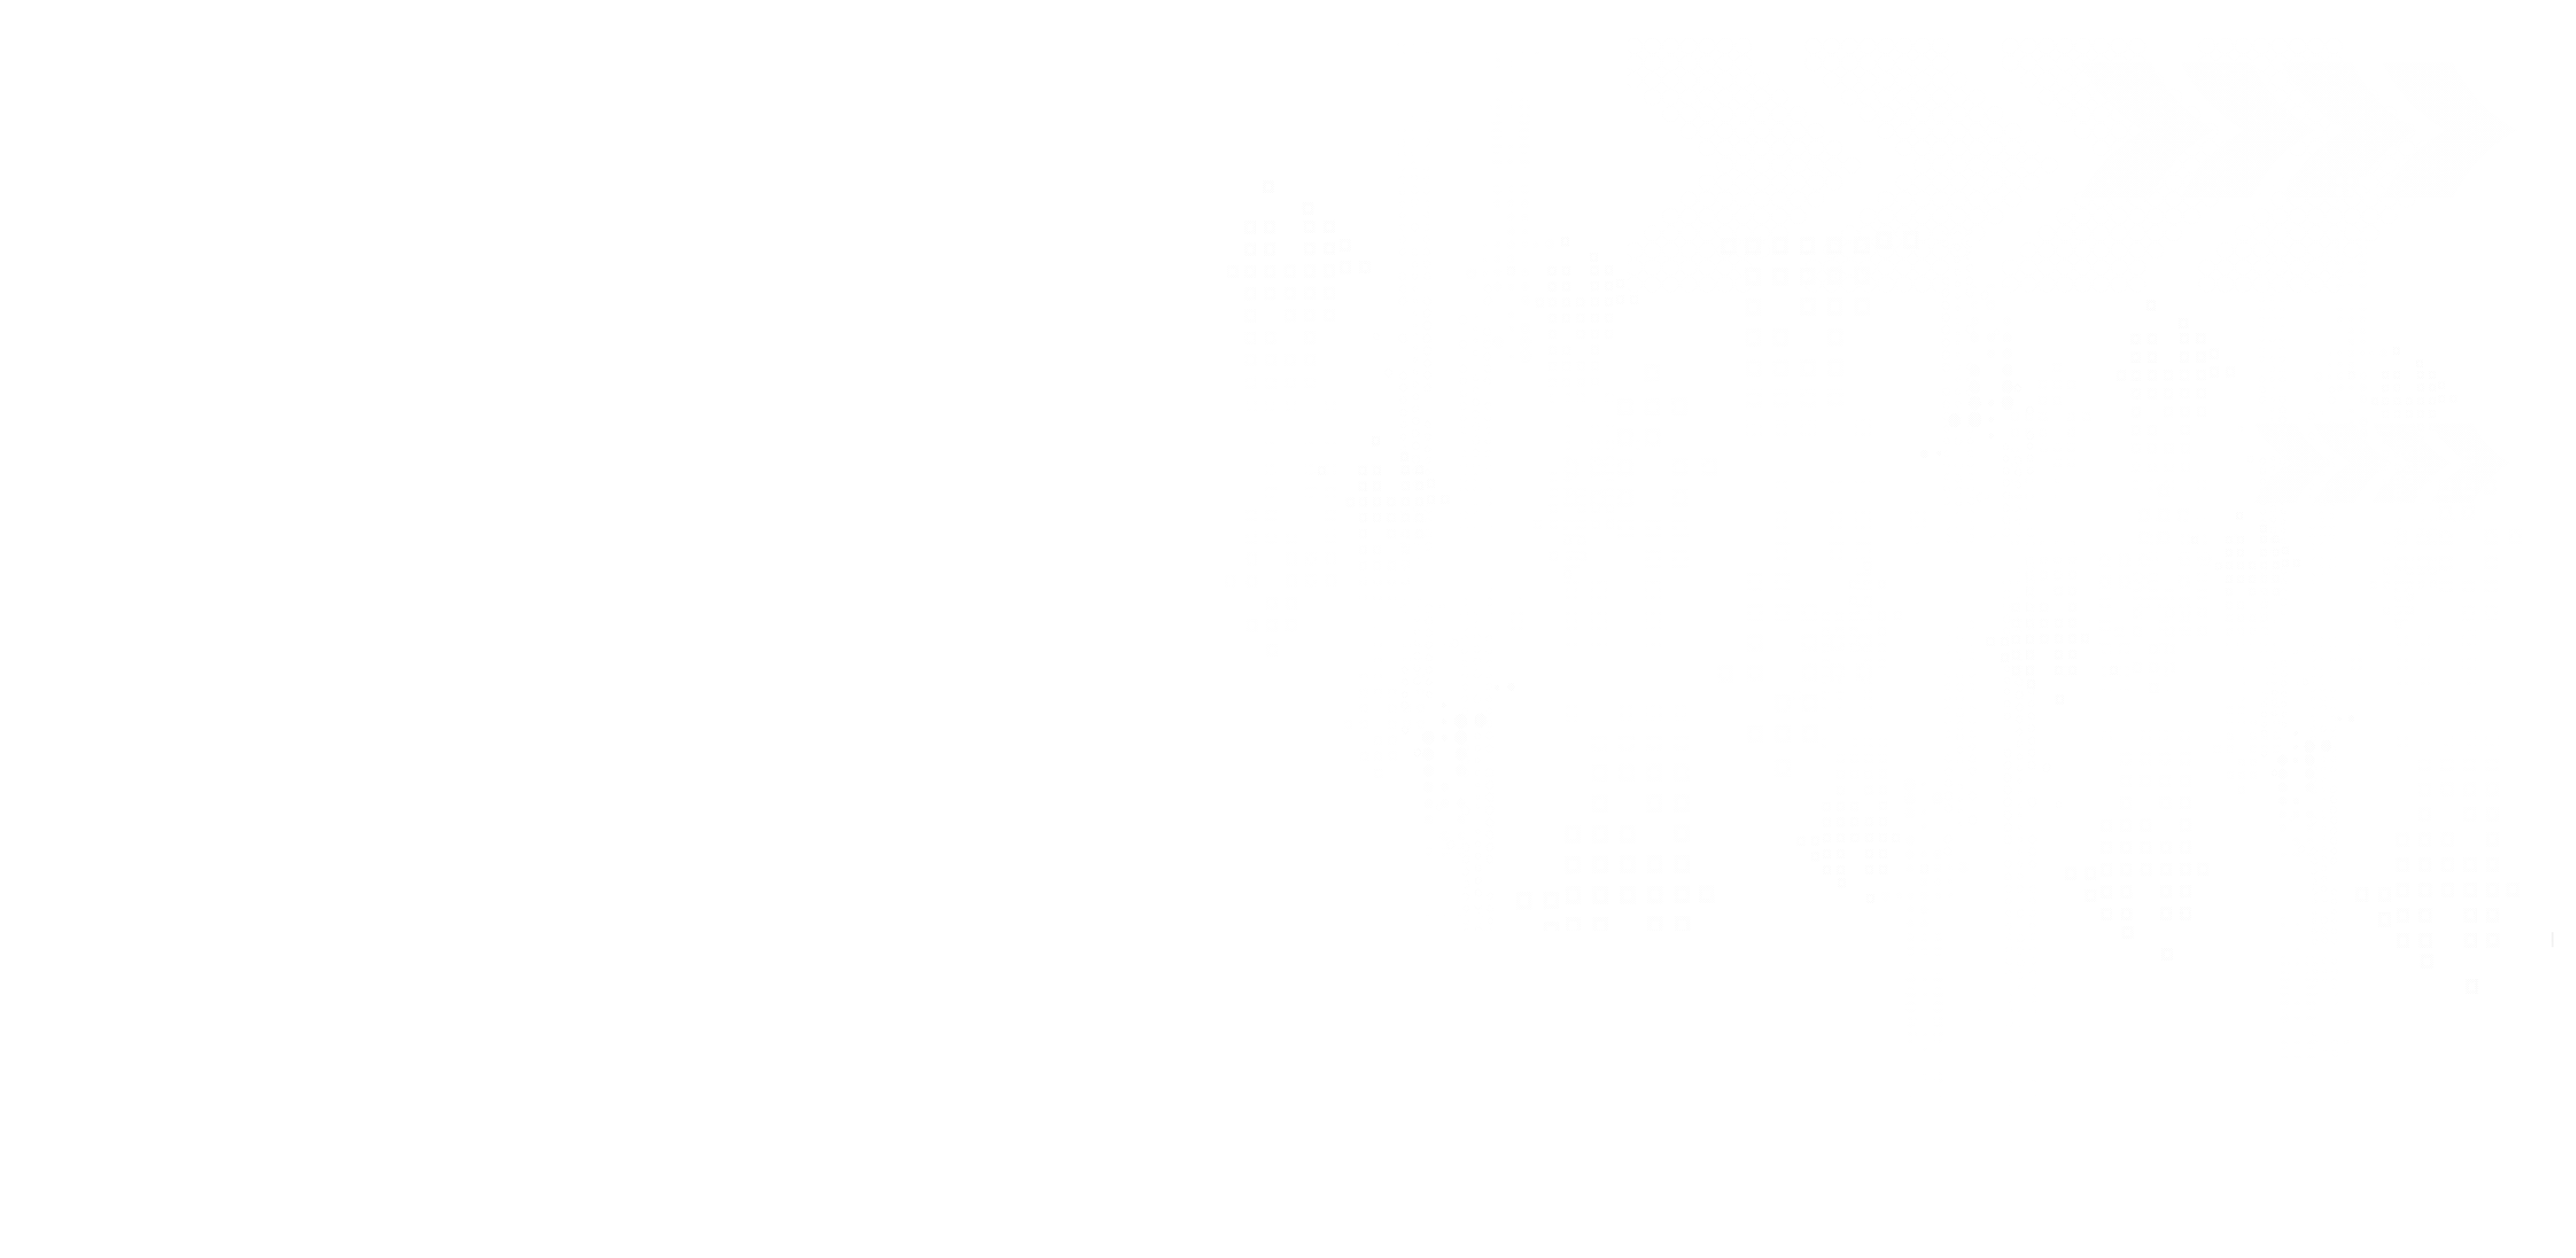
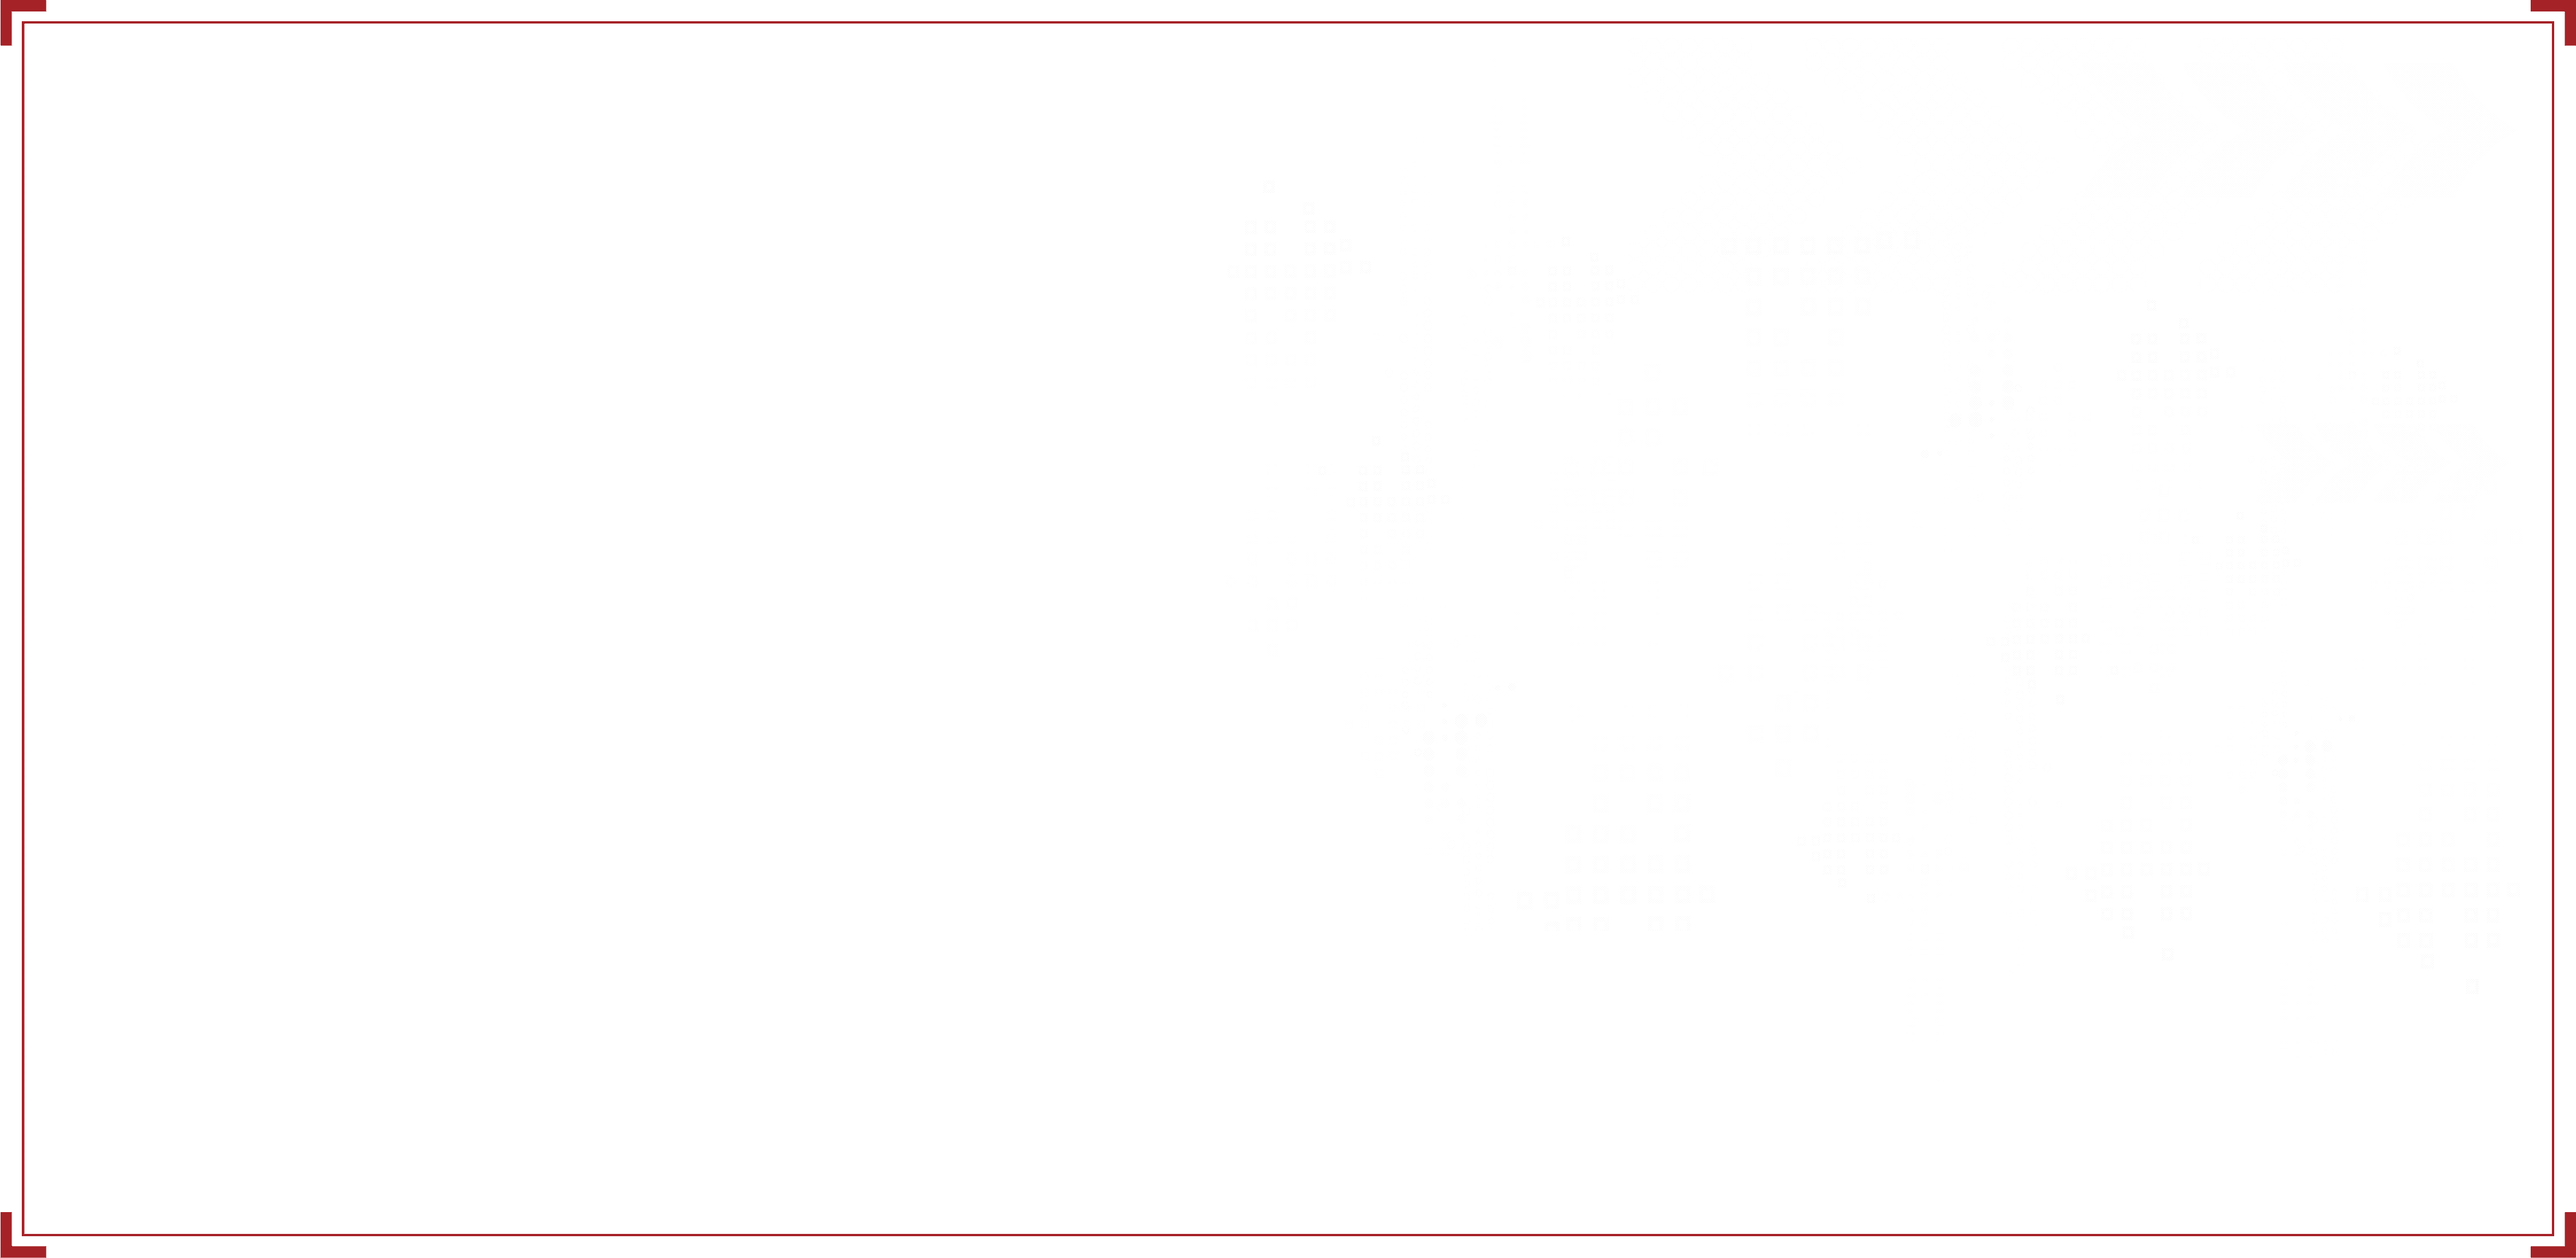
file mode

diff --git a/index.html b/index.html
@@ -26,7 +26,7 @@
 <section class="scene scene-main"></section>
 <section class="scene scene-anlibox"></section>
 <section class="scene scene-anli"></section>
-<section class="scene scene-yinyue"></section>
+<section class="scene scene-yinyue filter"></section>
 <section class="scene scene-huiyi child"></section>
 <section class="scene scene-zhongxiaoxue child"></section>
 <section class="scene scene-daxue child"></section>
@@ -76,9 +76,11 @@
                     event.preventDefault();
                 });
 
-                $('.scene.scene-index').show('scale(0)', 'scale(1)', function () {
+                $('.scene-index').show('scale(0)', 'scale(1)', function () {
                     $('.scene-loading').remove();
                 },'0.3s');
+
+                $('.scene-yinyue').addClass('show');
                 $('.scene .strue').pitTouch(function(){
                     $(this).addClass('btndoudong');
                     var scene = $(this).parent();

diff --git a/js/changfang.js b/js/changfang.js
@@ -33,10 +33,10 @@ sceneslist.push({
     'auto_w':true,                        /*是否自动适应宽度*/
     'auto_h':true,                         /*是否自动适应高度*/
     'layers':[                              /*场景的图层数据*/
-        {"img":"next.png","x":954,"y":1620,"attr":{"class":"next"}},
-        {"img":"ku.png","x":1848,"y":1180,"attr":{"class":"false"}},
-        {"img":"weibiao.png","x":1785,"y":370,"attr":{"class":"true"}},
-        {"img":"lingjiang.png","x":814,"y":1520,w:860,h:792,"attr":{"class":"lingjiang"}},
+        {"img":"next.png","x":771,"y":1611,"attr":{"class":"next"}},
+        {"img":"ku.png","x":1605,"y":1141,"attr":{"class":"false"}},
+        {"img":"weibiao.png","x":1539,"y":337,"attr":{"class":"true"}},
+        {"img":"lingjiang.png","x":814,"y":1520,"attr":{"class":"lingjiang"}},
     ]
 })
 

diff --git a/js/ditie.js b/js/ditie.js
@@ -32,10 +32,10 @@ sceneslist.push({
     'auto_w':true,                        /*是否自动适应宽度*/
     'auto_h':true,                         /*是否自动适应高度*/
     'layers':[                              /*场景的图层数据*/
-        {"img":"ku.png","x":1848,"y":1180,"attr":{"class":"false"}},
-        {"img":"weibiao.png","x":1785,"y":370,"attr":{"class":"true"}},
-        {"img":"next.png","x":954,"y":1620,"attr":{"class":"next"}},
-        {"img":"lingjiang.png","x":814,"y":1520,w:860,h:792,"attr":{"class":"lingjiang"}},
+        {"img":"next.png","x":771,"y":1611,"attr":{"class":"next"}},
+        {"img":"ku.png","x":1605,"y":1141,"attr":{"class":"false"}},
+        {"img":"weibiao.png","x":1539,"y":337,"attr":{"class":"true"}},
+        {"img":"lingjiang.png","x":814,"y":1520,"attr":{"class":"lingjiang"}},
     ]
 })
 

diff --git a/js/gouwuzhongxin.js b/js/gouwuzhongxin.js
@@ -34,10 +34,10 @@ sceneslist.push({
     'auto_w':true,                        /*是否自动适应宽度*/
     'auto_h':true,                         /*是否自动适应高度*/
     'layers':[                              /*场景的图层数据*/
-        {"img":"next.png","x":954,"y":1620,"attr":{"class":"next"}},
-        {"img":"ku.png","x":1848,"y":1180,"attr":{"class":"false"}},
-        {"img":"weibiao.png","x":1785,"y":370,"attr":{"class":"true"}},
-        {"img":"lingjiang.png","x":814,"y":1520,w:860,h:792,"attr":{"class":"lingjiang"}},
+        {"img":"next.png","x":771,"y":1611,"attr":{"class":"next"}},
+        {"img":"ku.png","x":1605,"y":1141,"attr":{"class":"false"}},
+        {"img":"weibiao.png","x":1539,"y":337,"attr":{"class":"true"}},
+        {"img":"lingjiang.png","x":814,"y":1520,"attr":{"class":"lingjiang"}},
     ]
 })
 

diff --git a/js/huiyi.js b/js/huiyi.js
@@ -35,10 +35,10 @@ sceneslist.push({
     'auto_w':true,                        /*是否自动适应宽度*/
     'auto_h':true,                         /*是否自动适应高度*/
     'layers':[                              /*场景的图层数据*/
-        {"img":"next.png","x":954,"y":1620,"attr":{"class":"next"}},
-        {"img":"ku.png","x":1848,"y":1180,"attr":{"class":"false"}},
-        {"img":"weibiao.png","x":1785,"y":370,"attr":{"class":"true"}},
-        {"img":"lingjiang.png","x":814,"y":1520,w:860,h:792,"attr":{"class":"lingjiang"}},
+        {"img":"next.png","x":771,"y":1611,"attr":{"class":"next"}},
+        {"img":"ku.png","x":1605,"y":1141,"attr":{"class":"false"}},
+        {"img":"weibiao.png","x":1539,"y":337,"attr":{"class":"true"}},
+        {"img":"lingjiang.png","x":814,"y":1520,"attr":{"class":"lingjiang"}},
     ]
 })
 

diff --git a/js/yinhang.js b/js/yinhang.js
@@ -34,10 +34,10 @@ sceneslist.push({
     'auto_w':true,                        /*是否自动适应宽度*/
     'auto_h':true,                         /*是否自动适应高度*/
     'layers':[                              /*场景的图层数据*/
-        {"img":"next.png","x":954,"y":1620,"attr":{"class":"next"}},
-        {"img":"ku.png","x":1848,"y":1180,"attr":{"class":"false"}},
-        {"img":"weibiao.png","x":1785,"y":370,"attr":{"class":"true"}},
-        {"img":"lingjiang.png","x":814,"y":1520,w:860,h:792,"attr":{"class":"lingjiang"}},
+        {"img":"next.png","x":771,"y":1611,"attr":{"class":"next"}},
+        {"img":"ku.png","x":1605,"y":1141,"attr":{"class":"false"}},
+        {"img":"weibiao.png","x":1539,"y":337,"attr":{"class":"true"}},
+        {"img":"lingjiang.png","x":814,"y":1520,"attr":{"class":"lingjiang"}},
     ]
 })
 

diff --git a/js/yiyuan.js b/js/yiyuan.js
@@ -35,10 +35,10 @@ sceneslist.push({
     'auto_w':true,                        /*是否自动适应宽度*/
     'auto_h':true,                         /*是否自动适应高度*/
     'layers':[                              /*场景的图层数据*/
-        {"img":"next.png","x":954,"y":1620,"attr":{"class":"next"}},
-        {"img":"ku.png","x":1848,"y":1180,"attr":{"class":"false"}},
-        {"img":"weibiao.png","x":1785,"y":370,"attr":{"class":"true"}},
-        {"img":"lingjiang.png","x":814,"y":1520,w:860,h:792,"attr":{"class":"lingjiang"}},
+        {"img":"next.png","x":771,"y":1611,"attr":{"class":"next"}},
+        {"img":"ku.png","x":1605,"y":1141,"attr":{"class":"false"}},
+        {"img":"weibiao.png","x":1539,"y":337,"attr":{"class":"true"}},
+        {"img":"lingjiang.png","x":814,"y":1520,"attr":{"class":"lingjiang"}},
     ]
 })
 

diff --git a/js/zhongxiaoxue.js b/js/zhongxiaoxue.js
@@ -34,10 +34,10 @@ sceneslist.push({
     'auto_w':true,                        /*是否自动适应宽度*/
     'auto_h':true,                         /*是否自动适应高度*/
     'layers':[                              /*场景的图层数据*/
-        {"img":"next.png","x":954,"y":1620,"attr":{"class":"next"}},
-        {"img":"ku.png","x":1848,"y":1180,"attr":{"class":"false"}},
-        {"img":"weibiao.png","x":1785,"y":370,"attr":{"class":"true"}},
-        {"img":"lingjiang.png","x":814,"y":1520,w:860,h:792,"attr":{"class":"lingjiang"}},
+        {"img":"next.png","x":771,"y":1611,"attr":{"class":"next"}},
+        {"img":"ku.png","x":1605,"y":1141,"attr":{"class":"false"}},
+        {"img":"weibiao.png","x":1539,"y":337,"attr":{"class":"true"}},
+        {"img":"lingjiang.png","x":814,"y":1520,"attr":{"class":"lingjiang"}},
     ]
 })
 

diff --git a/js/daxue.js b/js/daxue.js
@@ -57,10 +57,10 @@ sceneslist.push({
     'auto_w':true,                        /*是否自动适应宽度*/
     'auto_h':true,                         /*是否自动适应高度*/
     'layers':[                              /*场景的图层数据*/
-        {"img":"next.png","x":954,"y":1620,"attr":{"class":"next"}},
-        {"img":"ku.png","x":1848,"y":1180,"attr":{"class":"ku"}},
-        {"img":"weibiao.png","x":1785,"y":370,"attr":{"class":"true"}},
-        {"img":"lingjiang.png","x":814,"y":1520,w:860,h:792,"attr":{"class":"lingjiang"}},
+        {"img":"next.png","x":771,"y":1611,"attr":{"class":"next"}},
+        {"img":"ku.png","x":1605,"y":1141,"attr":{"class":"false"}},
+        {"img":"weibiao.png","x":1539,"y":337,"attr":{"class":"true"}},
+        {"img":"lingjiang.png","x":814,"y":1520,"attr":{"class":"lingjiang"}},
     ]
 })
 

diff --git a/js/yinyue.js b/js/yinyue.js
@@ -2,7 +2,7 @@
  * Created by Administrator on 12/16 0016.
  */
 sceneslist.push({
-    'box':$('.scene.scene-yinyue'),       /*场景的标签*/
+    'box':$('.scene-yinyue'),       /*场景的标签*/
     'debug':false,                            /*是否开启调试模式*/
     'width':4742,                            /*场景的宽*/
     'height':2667,                           /*场景的高*/

diff --git a/js/main.js b/js/main.js
@@ -400,8 +400,8 @@ initfunlist.push(function(){
         $('.scene-main').removeClass('show');
         $('.scene-anlibox').addClass('show');
         $('.scene-main '+key).addClass('juliedoudong');
+        $('.scene-yinyue').removeClass('filter');
         $('.scene-'+key).show();
-        win.resize();
     });
     //OK
     $('.btn_ok').pitTouch(function() {

diff --git a/js/anlibox.js b/js/anlibox.js
@@ -28,6 +28,7 @@ initfunlist.push(function(){
         setTimeout(function(){
             console.log('返回main');
             sceneID.removeClass('show');
+            $('.scene-yinyue').addClass('filter');
             $('.scene.scene-anlibox').removeClass('show');
             $('.scene-main').addClass('show');
             $(window).resize();
